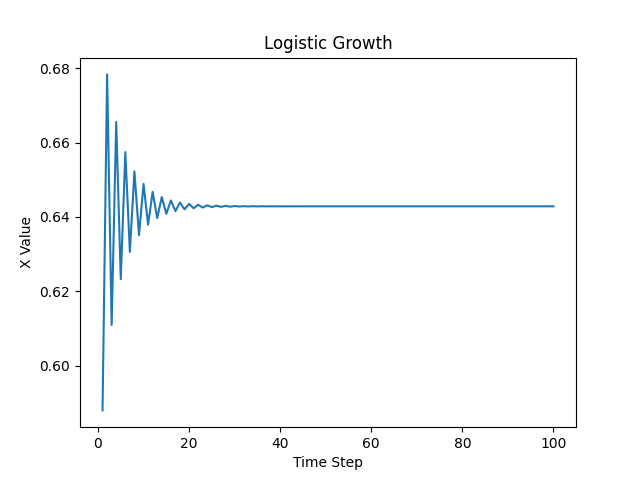
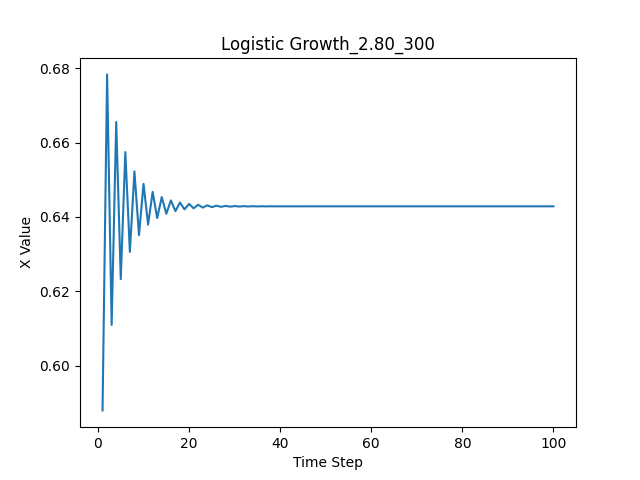
Cleaned commit

Changed region(s): [[0.3438, 0.0625, 0.6875, 0.125]]

diff --git a/day01_logistic_map/plot.py b/day01_logistic_map/plot.py
@@ -5,15 +5,17 @@ import os
 
 
 csv_files = glob.glob(os.path.join("./", "*.csv"))
+
 for file_path in csv_files:
     x = file_path.split("_")[2].split(".")[1]
     r = file_path.split("_")[1]
     df = pd.read_csv(file_path)
 
     plt.plot(df["n"], df["x"])
-    plt.title("Logistic Growth")
+    plt.title("Logistic Growth_" + r + "_" + x)
     plt.xlabel("Time Step")
     plt.ylabel("X Value")
 
     plt.savefig("plot" + "_" + r + "_" + x + ".png")
+    plt.close()
     del df
